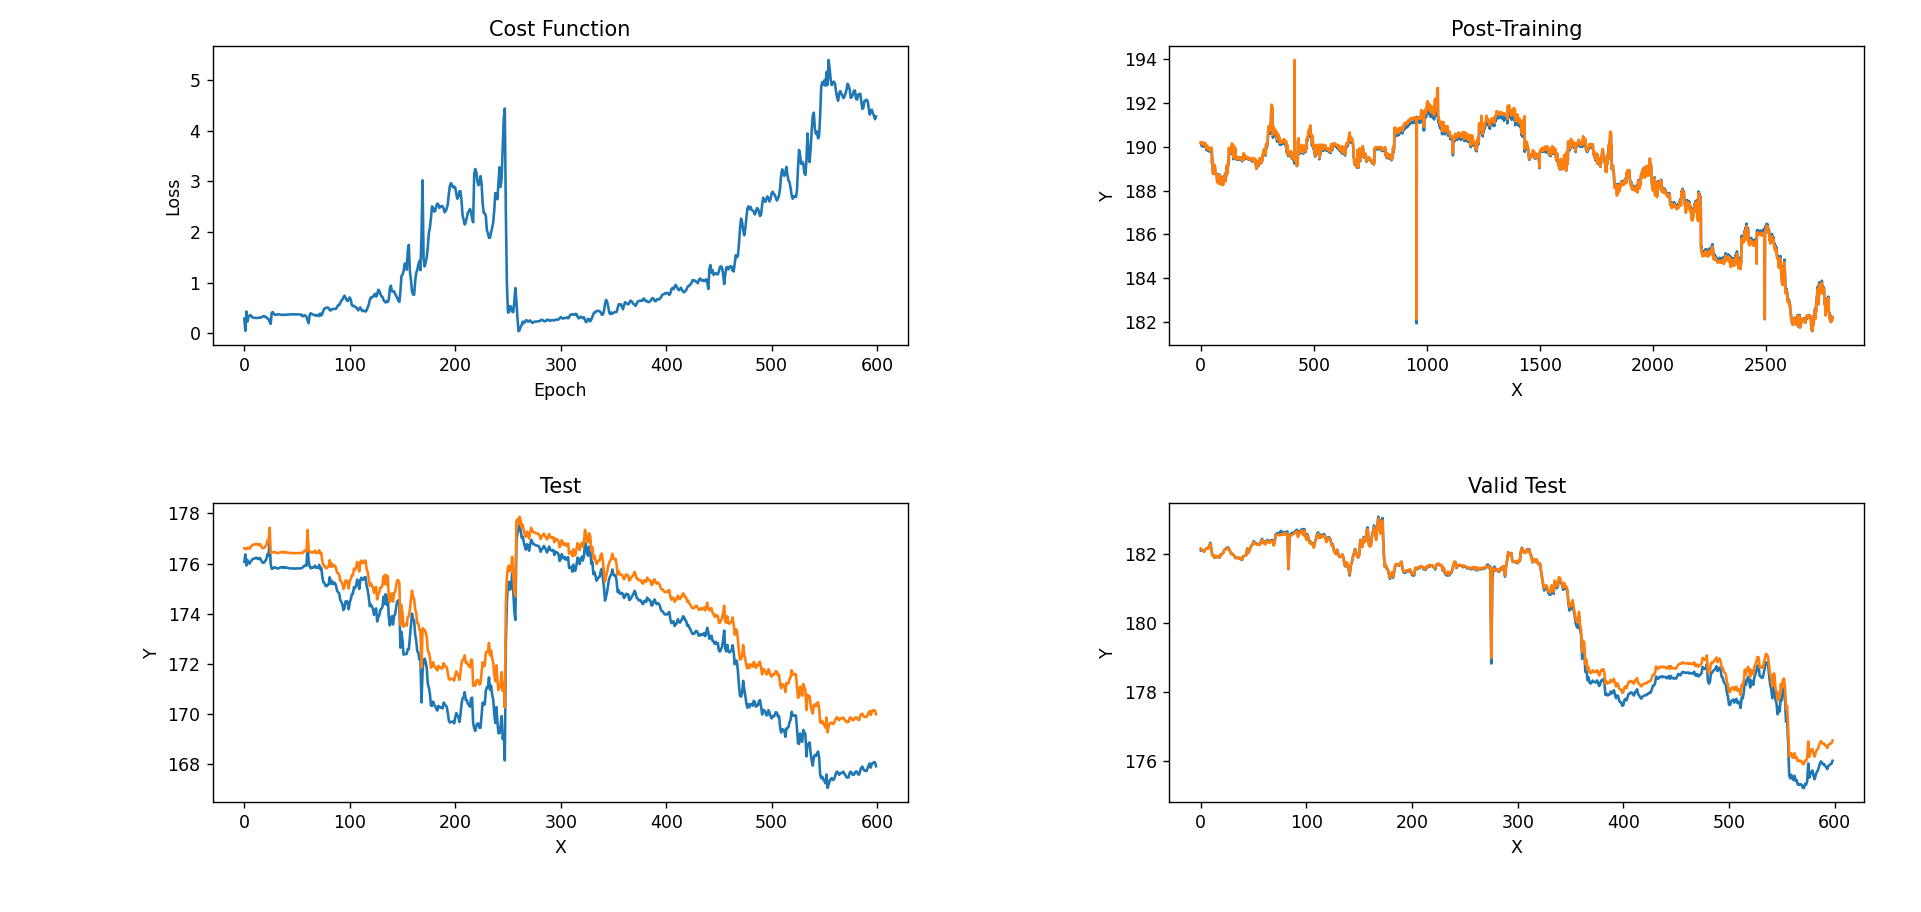
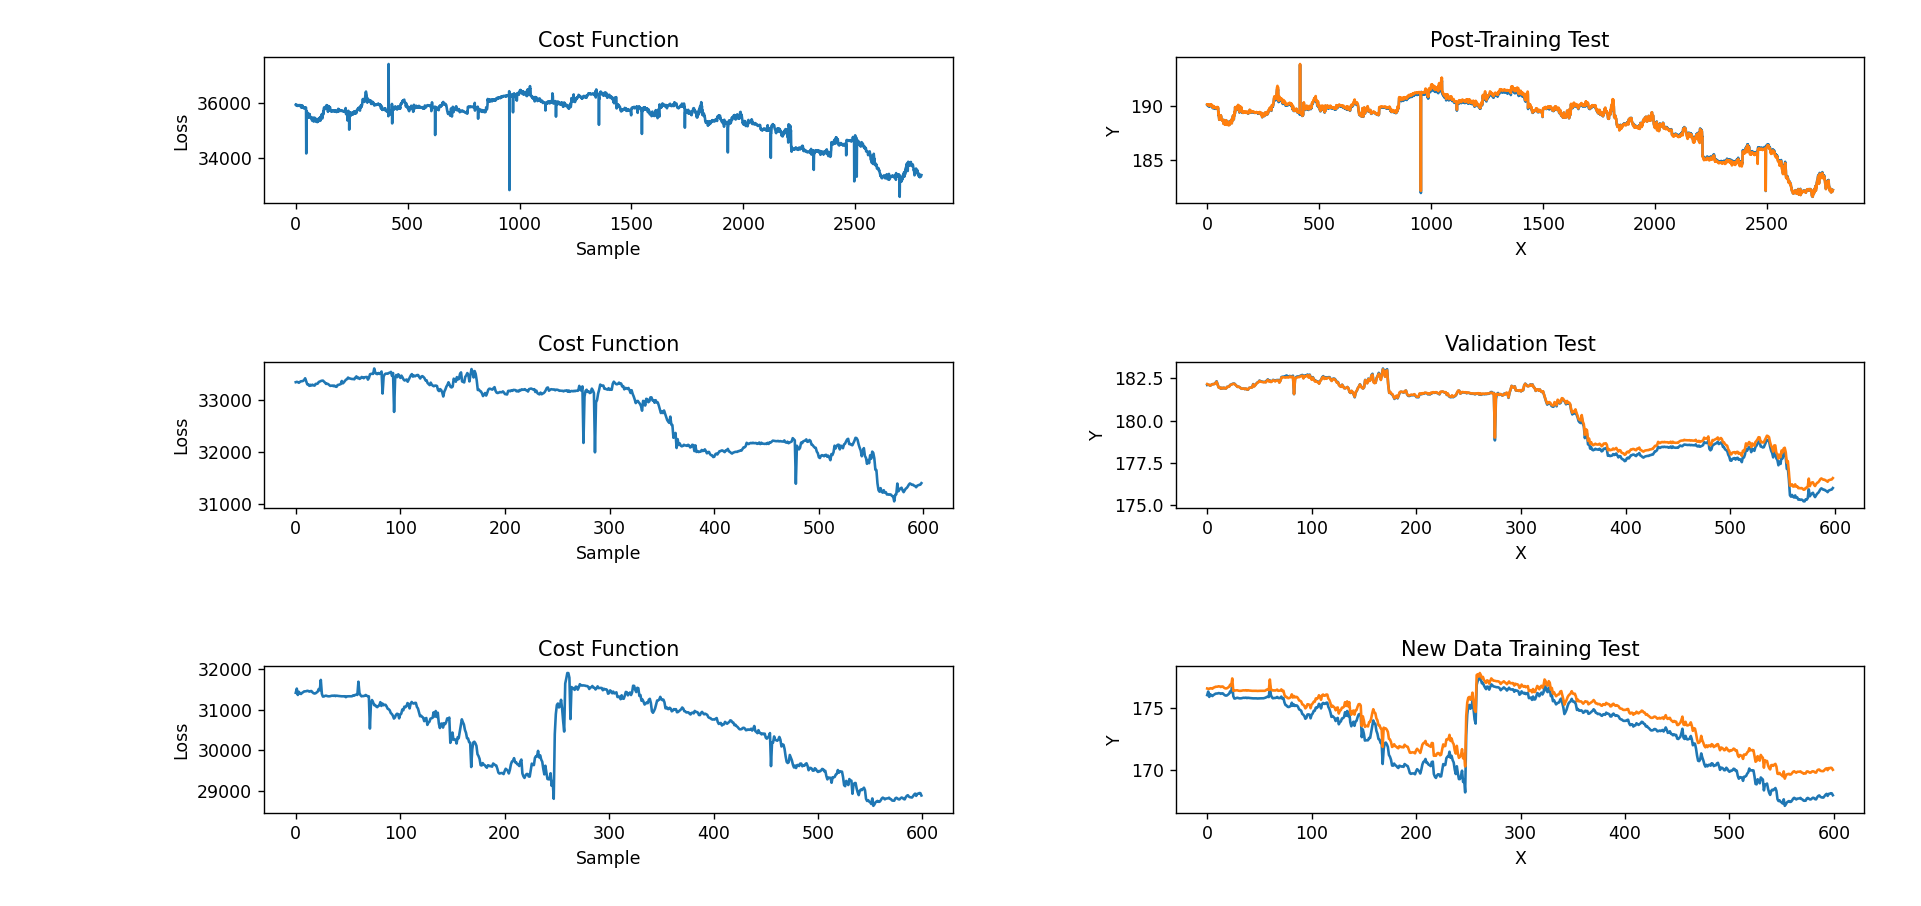
New Chart

diff --git a/index.py b/index.py
@@ -13,46 +13,10 @@ train_set, valid_set, test_set = analyzer.analyze_stock(STOCK_DATA_PATH)
 rnn = RNN(hyperparameters)
 rnn.load_weights(TRAINED_NETWORK_PATH)
 
-test_x, test_y = test_set
-hiddens, predictions = rnn.forward(test_x)
-loss_history = [mse(y, pred) for y, pred in zip(test_y, predictions)]
+visualizer = Visualizer(3, 2)
 
-train_x, train_y = train_set
-train_hiddens, train_predictions = rnn.forward(train_x)
-train_history = [mse(y, pred) for y, pred in zip(train_x, train_predictions)]
-
-valid_x, valid_y = valid_set
-valid_hiddens, valid_predictions = rnn.forward(valid_x)
-valid_history = [mse(y, pred) for y, pred in zip(valid_x, train_predictions)]
-
-visualizer = Visualizer(2, 2)
-
-visualizer.draw(
-    [(loss_history, "Cost Function")],
-    "Epoch",
-    "Loss",
-    "Cost Function"
-)
-
-visualizer.draw(
-    [(train_predictions, "Predictions"), (train_y, "Actual Value")],
-    "X",
-    "Y",
-    "Post-Training"
-)
-
-visualizer.draw(
-    [(predictions, "Predictions"), (test_y, "Actual Value")],
-    "X",
-    "Y",
-    "Test"
-)
-
-visualizer.draw(
-    [(valid_predictions, "Predictions"), (valid_y, "Actual Value")],
-    "X",
-    "Y",
-    "Valid Test"
-)
+visualizer.create_chart_set(train_set, rnn, "Post-Training Test")
+visualizer.create_chart_set(valid_set, rnn, "Validation Test")
+visualizer.create_chart_set(test_set, rnn, "New Data Training Test")
 
 visualizer.visualize()

diff --git a/helpers/Visualizer.py b/helpers/Visualizer.py
@@ -1,4 +1,5 @@
 import matplotlib.pyplot as plt
+from helpers.functions import mse
 
 class Visualizer:
     def __init__(self, size, columns) -> None:
@@ -21,3 +22,22 @@ class Visualizer:
     def visualize(self):
         plt.tight_layout()
         plt.show()
+    
+    def create_chart_set(self, set, rnn, test_name):
+        set_x, set_y = set
+        train_hiddens, train_predictions = rnn.forward(set_x)
+        train_history = [mse(y, pred) for y, pred in zip(set_x, train_predictions)]
+
+        self.draw(
+            [(train_history, "Cost Function")],
+            "Sample",
+            "Loss",
+            "Cost Function"
+        )
+
+        self.draw(
+            [(train_predictions, "Predictions"), (set_y, "Actual Value")],
+            "X",
+            "Y",
+            test_name
+        )

diff --git a/README.md b/README.md
@@ -1,4 +1,4 @@
 # RNN-reusable-version
  One to one rnn to predict stock market prices.
 
-![Result Image](img/chart.png)
+![Result Image](img/Chart.png)
